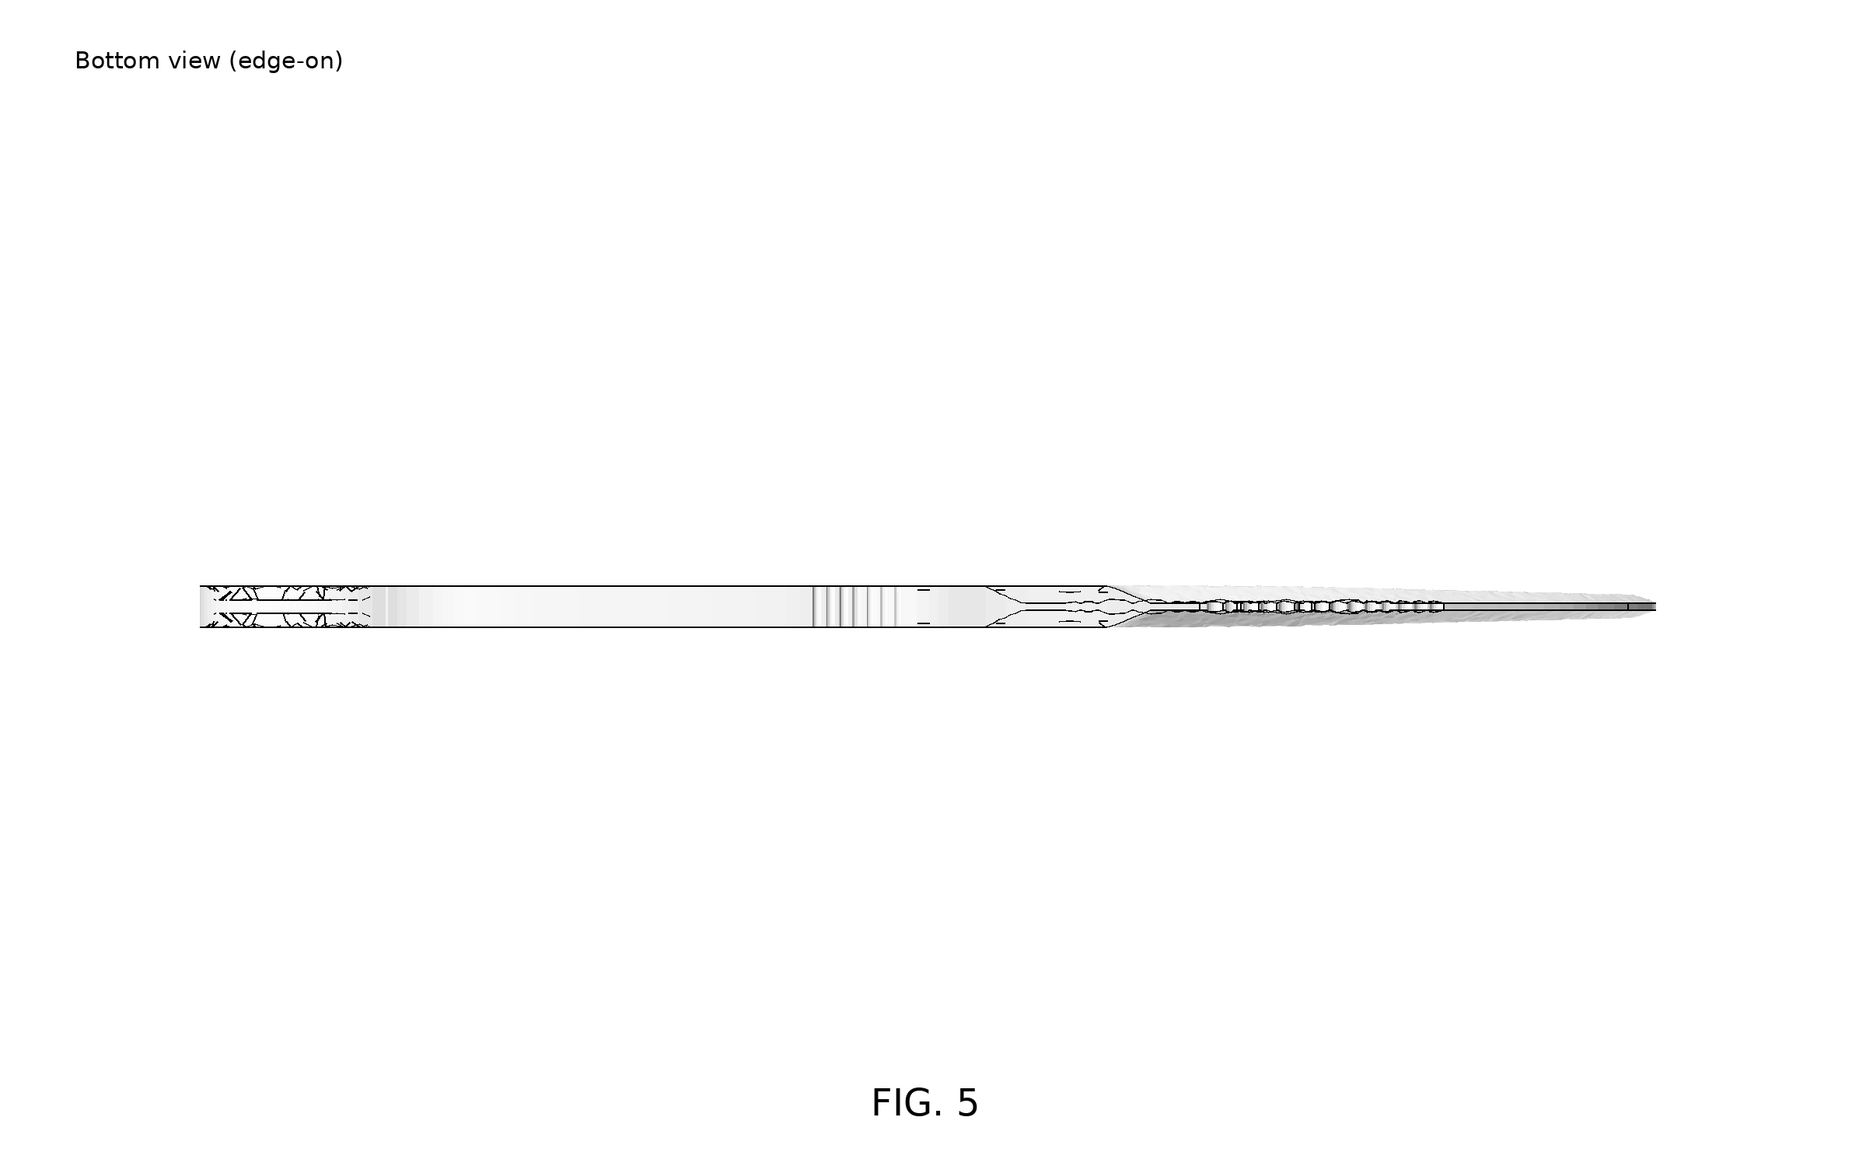
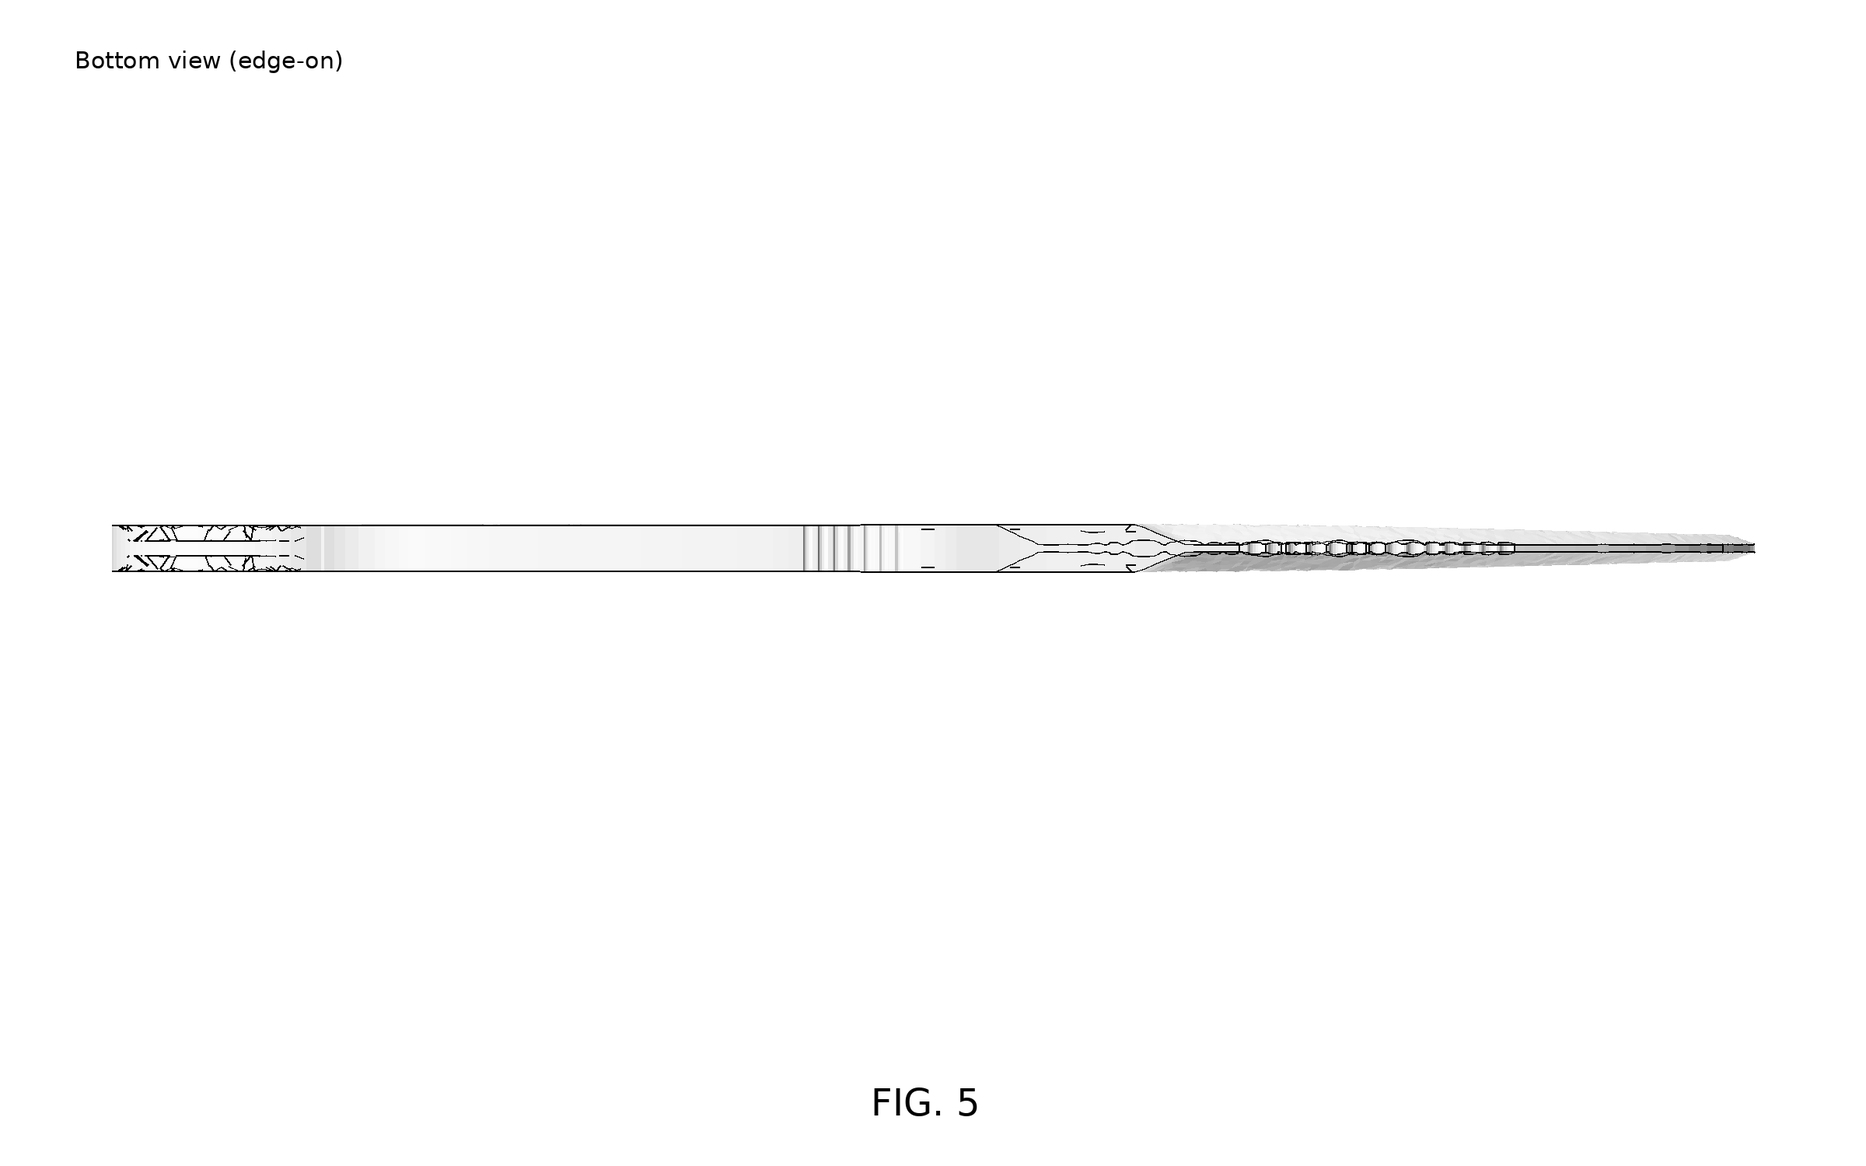
PR-0.32.0d review: fit views from projected bounds, anchor 40 at the tip and 50 in the grind-law taper, scope archived vs current screen status; tests

Changed region(s): [[0.5312, 0.4293, 0.9375, 0.552], [0.0625, 0.4293, 0.2188, 0.552], [0.4062, 0.4293, 0.5, 0.552]]

diff --git a/ops/render/patent/figures.py b/ops/render/patent/figures.py
@@ -4,7 +4,7 @@ Design-patent practice: FIG.1 perspective, FIG.2 front (left side face), FIG.3 r
 FIG.6 left end, FIG.7 right end — black line-art shading on white, orthographic. Utility-style FIG.8: front view with
 reference numerals and leader lines for the claimed features (ring, grip, spine, sharpened edge, tip, thickness taper, relief pockets).
 Writes PNGs + figures.manifest.json (inputs/outputs sha256) to --out.
-usage: figures.py --stl STL --d1 D1.json --out docs/patent/figures"""
+usage: figures.py --stl STL --d1 D1.json --grind GRIND_LAW.json --out docs/patent/figures   |   figures.py --verify docs/patent/figures/figures.json"""
 import argparse, hashlib, json, os, re
 import numpy as np
 from PIL import Image, ImageDraw, ImageFont
@@ -34,13 +34,31 @@ VIEWS = [('FIG. 1', 'Perspective view', rot('x', -55) @ rot('z', -30)),
          ('FIG. 7', 'Right end view (tip end)', rot('z', -90))]
 
 
+# drawable box (fractions of W, H): clear of the caption (top-left) and the FIG. label (bottom)
+BOX = (0.06, 0.10, 0.94, 0.84)
+
+
+def fit(q):
+    """Scale + offset from the projected bounding box: the complete part fits BOX, centred on its bbox midpoint."""
+    P = q.reshape(-1, 3); lo, hi = P[:, [0, 2]].min(0), P[:, [0, 2]].max(0)
+    bw, bh = (BOX[2] - BOX[0]) * W, (BOX[3] - BOX[1]) * H
+    s = min(bw / max(hi[0] - lo[0], 1e-6), bh / max(hi[1] - lo[1], 1e-6))
+    return s, (BOX[0] + BOX[2]) / 2 * W - (lo[0] + hi[0]) / 2 * s, (BOX[1] + BOX[3]) / 2 * H + (lo[1] + hi[1]) / 2 * s
+
+
+def screen_bounds(v, R):
+    c0 = v.reshape(-1, 3).mean(0); q = (v - c0) @ R.T; s, cx, cy = fit(q)
+    X = cx + q[:, :, 0] * s; Y = cy - q[:, :, 2] * s
+    return X.min(), Y.min(), X.max(), Y.max()
+
+
 def draw_view(v, R, title, sub, numerals=None):
     c0 = v.reshape(-1, 3).mean(0); q = (v - c0) @ R.T
     n = np.cross(q[:, 1] - q[:, 0], q[:, 2] - q[:, 0]); n /= np.linalg.norm(n, axis=1)[:, None] + 1e-12
     vis = np.abs(n[:, 1]) > 1e-3
     lam = np.abs(n @ np.array([-0.4, -0.75, 0.5]) / np.linalg.norm([-0.4, -0.75, 0.5]))
-    P = q.reshape(-1, 3); ext = max(np.ptp(P[:, 0]), np.ptp(P[:, 2]) * 1.6, 1e-6) * (1.0 if np.ptp(P[:, 0]) > 40 else 4.0)
-    s = W * 0.78 / ext; X = W / 2 + q[:, :, 0] * s; Y = H * 0.52 - q[:, :, 2] * s
+    s, cx, cy = fit(q)
+    X = cx + q[:, :, 0] * s; Y = cy - q[:, :, 2] * s
     img = Image.new('RGB', (W, H), 'white'); dr = ImageDraw.Draw(img)
     for i in np.argsort(q[:, :, 1].mean(1))[::-1]:
         if not vis[i]: continue
@@ -56,10 +74,10 @@ def draw_view(v, R, title, sub, numerals=None):
     for k, fs in edges.items():
         if len(fs) == 1 or abs(nn[fs[0]] @ nn[fs[1]]) < 0.6:
             a = (np.array(k[:3]) - c0) @ R.T; b = (np.array(k[3:]) - c0) @ R.T
-            dr.line([(W / 2 + a[0] * s, H * 0.52 - a[2] * s), (W / 2 + b[0] * s, H * 0.52 - b[2] * s)], fill='black', width=2)
+            dr.line([(cx + a[0] * s, cy - a[2] * s), (cx + b[0] * s, cy - b[2] * s)], fill='black', width=2)
     if numerals:
         for num, (pt, off) in numerals.items():
-            p = (np.array(pt) - c0) @ R.T; x, y = W / 2 + p[0] * s, H * 0.52 - p[2] * s
+            p = (np.array(pt) - c0) @ R.T; x, y = cx + p[0] * s, cy - p[2] * s
             tx, ty = x + off[0], y + off[1]
             dr.line([(x, y), (tx, ty)], fill='black', width=2); dr.text((tx + 6, ty - 18), str(num), fill='black', font=font(36))
     dr.text((W / 2 - 80, H - 110), title, fill='black', font=font(48))
@@ -78,18 +96,20 @@ def verify(man_path):
 
 
 def main(argv=None):
-    ap = argparse.ArgumentParser(); ap.add_argument('--stl'); ap.add_argument('--d1'); ap.add_argument('--out')
+    ap = argparse.ArgumentParser(); ap.add_argument('--stl'); ap.add_argument('--d1'); ap.add_argument('--out'); ap.add_argument('--grind', help='grind law json (taper_x0, x_max) for reference numeral 50')
     ap.add_argument('--verify', metavar='FIGURES_JSON', help='check a committed figure set instead of rendering')
     a = ap.parse_args(argv)
     if a.verify:
         e = verify(a.verify); print('\n'.join(e) or f'patent figures: {a.verify} ok'); raise SystemExit(1 if e else 0)
-    if not (a.stl and a.d1 and a.out):
-        ap.error('--stl, --d1 and --out are required to render')
+    if not (a.stl and a.d1 and a.out and a.grind):
+        ap.error('--stl, --d1, --grind and --out are required to render')
     os.makedirs(a.out, exist_ok=True)
     v = np.array(re.findall(r'vertex\s+(\S+)\s+(\S+)\s+(\S+)', open(a.stl).read()), float).reshape(-1, 3, 3)
     d1 = json.load(open(a.d1)); P = v.reshape(-1, 3); zt = P[:, 2].max()
     hdr = d1['genome_header'].split(','); gv = d1['genome'].split(','); ring_id = float(gv[hdr.index('ring_id')])
-    xmin, xmax = P[:, 0].min(), P[:, 0].max(); tip = P[P[:, 0].argmax()]
+    xmin, xmax = P[:, 0].min(), P[:, 0].max()
+    t2 = d1['outline'][0]; tip = np.array([t2[0], t2[1], zt])  # actual tip point (pheno c[0] = D1 outline[0])
+    gl = json.load(open(a.grind)); x_taper = gl['taper_x0'] + 0.35 * (gl['x_max'] - gl['taper_x0'])
     def near(x, pick):  # surface point at plan x, extreme y
         sel = P[np.abs(P[:, 0] - x) < 2.0]; return sel[sel[:, 1].argmax()] if pick == 'max' else sel[sel[:, 1].argmin()]
     numerals = {10: ((ring_id / 2 + 2.0, 0.0, zt), (-160, -170)),           # finger ring
@@ -98,20 +118,21 @@ def main(argv=None):
                 30: (tuple(near(xmin + 0.80 * (xmax - xmin), 'min')), (40, -190)),   # concave (inner) edge
                 32: (tuple(near(xmin + 0.80 * (xmax - xmin), 'max')), (60, 170)),    # convex (outer) edge
                 40: (tuple(tip), (60, -120)),                                 # tip
-                50: (tuple(near(xmin + 0.62 * (xmax - xmin), 'max') * [1, 0.85, 1]), (-80, 210))}  # distal taper / relief
+                50: ((x_taper, float(np.mean([near(x_taper, 'max')[1], near(x_taper, 'min')[1]])), zt), (-260, 260))}  # distal thickness taper (inside taper_x0..x_max of the grind law)
     legend = {10: 'finger ring', 12: 'ring bore (finger-bearing surface)', 20: 'grip / spine', 30: 'concave (inner) sharpened, serrated edge',
-              32: 'convex (outer) sharpened, serrated edge', 40: 'tip', 50: 'distal thickness taper / relief pockets'}
+              32: 'convex (outer) sharpened, serrated edge', 40: 'tip', 50: 'distal thickness taper'}
     outs = []
     for i, (t, sub, R) in enumerate(VIEWS, 1):
         p = os.path.join(a.out, f'fig{i:02d}.png'); draw_view(v, R, t, sub).save(p, optimize=True); outs.append(p)
     img = draw_view(v, VIEWS[1][2], 'FIG. 8', 'Front elevation with reference numerals', numerals)
     dr = ImageDraw.Draw(img)
-    for k, (num, txt) in enumerate(sorted(legend.items())): dr.text((W * 0.62, H * 0.70 + 42 * k), f'{num}  {txt}', fill='black', font=font(30))
+    for k, (num, txt) in enumerate(sorted(legend.items())): dr.text((W * 0.04, H * 0.09 + 42 * k), f'{num}  {txt}', fill='black', font=font(30))
     p = os.path.join(a.out, 'fig08.png'); img.save(p, optimize=True); outs.append(p)
     rel = lambda p: os.path.relpath(os.path.abspath(p), ROOT)
-    man = {'schema': 1, 'script': 'ops/render/patent/figures.py', 'inputs': {rel(a.stl): sha(a.stl), rel(a.d1): sha(a.d1)},
+    man = {'schema': 1, 'script': 'ops/render/patent/figures.py', 'inputs': {rel(a.stl): sha(a.stl), rel(a.d1): sha(a.d1), rel(a.grind): sha(a.grind)},
            'figures': {rel(p): sha(p) for p in outs}, 'views': [f'{t}: {s}' for t, s, _ in VIEWS] + ['FIG. 8: Front elevation with reference numerals'],
-           'reference_numerals': {str(k): v for k, v in legend.items()}}
+           'reference_numerals': {str(k): v for k, v in legend.items()},
+           'numeral_anchors_mm': {str(k): [round(float(c), 4) for c in pt] for k, (pt, _) in numerals.items()}, 'taper_mm': [gl['taper_x0'], gl['x_max']]}
     with open(os.path.join(a.out, 'figures.json'), 'w') as fh:
         json.dump(man, fh, indent=1, sort_keys=True); fh.write('\n')
     print(json.dumps({'figures': len(outs)}))

diff --git a/ops/ci/tests/test_patent_figures.py b/ops/ci/tests/test_patent_figures.py
@@ -18,8 +18,25 @@ class PatentFigures(unittest.TestCase):
 
     def test_draft_status_is_scoped(self):
         draft = open(os.path.join(ROOT, 'docs/PATENT_DRAFT.md'), encoding='utf-8').read()
-        self.assertNotRegex(draft, r'passes all hard gates')
-        self.assertIn('RS-karambit-v2', draft)
+        self.assertNotRegex(draft, r'passes all hard gates|passed every hard gate|meets the RS-karambit-v1 screen in simulation')
+        self.assertIn('RS-karambit-v2', draft); self.assertIn('archived v0.27', draft); self.assertIn('fails** the inherited RS-karambit-v1 screen', draft)
+
+    def test_views_fit_and_numerals_anchor_features(self):
+        try:
+            import numpy as np
+        except ImportError:
+            self.skipTest('numpy not installed')
+        sys.path.insert(0, os.path.join(ROOT, 'ops', 'render', 'patent'))
+        import figures as F
+        man = json.load(open(MAN)); stl = [k for k in man['inputs'] if k.endswith('.stl')][0]
+        v = np.array(re.findall(r'vertex\s+(\S+)\s+(\S+)\s+(\S+)', open(os.path.join(ROOT, stl)).read()), float).reshape(-1, 3, 3)
+        for t, _, R in F.VIEWS:
+            x0, y0, x1, y1 = F.screen_bounds(v, R)
+            self.assertGreaterEqual(x0, 0, t); self.assertLessEqual(x1, F.W, t); self.assertGreaterEqual(y0, 0, t); self.assertLessEqual(y1, F.H, t)
+        d1 = json.load(open(os.path.join(ROOT, [k for k in man['inputs'] if k.endswith('_D1.json')][0])))
+        tip = man['numeral_anchors_mm']['40']; t0 = d1['outline'][0]
+        self.assertLess(((tip[0] - t0[0]) ** 2 + (tip[1] - t0[1]) ** 2) ** 0.5, 0.5)
+        a, b = man['taper_mm']; self.assertTrue(a < man['numeral_anchors_mm']['50'][0] < b)
 
 
 if __name__ == '__main__':

diff --git a/docs/PATENT_DRAFT.md b/docs/PATENT_DRAFT.md
@@ -1,6 +1,6 @@
 # PATENT APPLICATION — DRAFT (NOT FILED)
 
-> **DRAFT / NOT FILED / NOT LEGAL ADVICE.** Prepared by the inventor for counsel review. No prior-art search has been performed. Nothing here is a manufacturing release; the described embodiment is an engineering provisional and is **not promoted**. Version: jarambit v0.32 (release candidate), 2026-10-12. **Simulation status:** the embodiment meets the RS-karambit-v1 screen in simulation but does **not** meet the v1 gate set RS-karambit-v2 (human-maximum twist, tip and spine loads, seq ≥ 1.2, finger-bearing width, holder envelope; `docs/WHITEPAPER.md` §IV-A). No embodiment has been built or tested.
+> **DRAFT / NOT FILED / NOT LEGAL ADVICE.** Prepared by the inventor for counsel review. No prior-art search has been performed. Nothing here is a manufacturing release; the described embodiment is an engineering provisional and is **not promoted**. Version: jarambit v0.32 (release candidate), 2026-10-12. **Simulation status:** in the archived v0.27 wave27 evaluation the embodiment passed the RS-karambit-v1 screen group (not promotion: seq 0.959 < 1.2, `promote_eligible` false). In the current evaluation (`evidence/rs_v2/g3_tip+00_t60_tt3.json`) it **fails** the inherited RS-karambit-v1 screen on the holder envelope (best oriented box 200.9 × 100.4 > 200 × 100 mm) and fails the RS-karambit-v2 human-maximum, seq ≥ 1.2, fatigue and finger-bearing gates (`docs/WHITEPAPER.md` §IV-A). No embodiment has been built or tested.
 
 **Inventor:** Jepson Taylor
 **Type:** Non-provisional utility application (draft)
@@ -18,7 +18,7 @@ The invention relates to fixed-blade cutting tools, and more particularly to a o
 Karambit-style knives combine a curved, hooked blade with a finger ring that retains the knife during pull cuts on cord, webbing and packaging. Lightweight titanium versions face three conflicting demands: (i) the hooked tip is thin and is the usual point of failure under lateral and prying loads; (ii) mass must stay low for hiking carry; (iii) the ring and neck must survive ring-pull and torsion while the user grips with gloves. Conventional designs set a uniform stock and grind by hand, which either over-builds the handle or leaves the tip weak. Decorative anodizing on worn ring faces wears off quickly.
 
 ## SUMMARY
-A one-piece Ti-6Al-4V crescent karambit comprises a finger ring, a neck, a grip, and a curved double-edged blade terminating in a hooked tip. (1) **Continuous rails**: raised spine rails of width ≈ 3.2 mm run without interruption from the neck through the grip into the blade, carrying lateral and torsional load past lightening pockets. (2) **Tip-outline/stock law**: the stock is 6.0 mm and tapers along a grind law from a taper start (~135 mm from the ring) to a governed tip thickness (≈ 3.10 mm; "tt3" = +0.3 mm over the prior law) while the last three outline control points of the tip are held to a fixed envelope, so the peak solid stress 4 mm from the point stays below allowable with solid tip safety factor ≥ 1.5. (3) **Dual-face ring contrast channels**: a recessed annular channel on both faces of the ring, concentric with the bore and bounded by full-thickness rims, carries a contrast anodize below the worn faces in the ring's low-stress zone. The embodiment `g3_tip+00_t60_tt3` weighs 84.80 g, has ring ID 25.46 mm, tip SF 1.534, strength-per-gram 4.147 N/g (tip×SPG 6.362), meets the RS-karambit-v1 screen in simulation, and does not yet meet RS-karambit-v2.
+A one-piece Ti-6Al-4V crescent karambit comprises a finger ring, a neck, a grip, and a curved double-edged blade terminating in a hooked tip. (1) **Continuous rails**: raised spine rails of width ≈ 3.2 mm run without interruption from the neck through the grip into the blade, carrying lateral and torsional load past lightening pockets. (2) **Tip-outline/stock law**: the stock is 6.0 mm and tapers along a grind law from a taper start (~135 mm from the ring) to a governed tip thickness (≈ 3.10 mm; "tt3" = +0.3 mm over the prior law) while the last three outline control points of the tip are held to a fixed envelope, so the peak solid stress 4 mm from the point stays below allowable with solid tip safety factor ≥ 1.5. (3) **Dual-face ring contrast channels**: a recessed annular channel on both faces of the ring, concentric with the bore and bounded by full-thickness rims, carries a contrast anodize below the worn faces in the ring's low-stress zone. The embodiment `g3_tip+00_t60_tt3` weighs 84.80 g, has ring ID 25.46 mm, tip SF 1.534, strength-per-gram 4.147 N/g (tip×SPG 6.362), passed the RS-karambit-v1 screen group in the archived v0.27 evaluation; the current evaluation fails the inherited screen (holder envelope) and RS-karambit-v2.
 
 ## BRIEF DESCRIPTION OF THE DRAWINGS
 All drawings are generated from the embodiment's STL by `ops/render/patent/figures.py` (orthographic line-art; manifest `docs/patent/figures/figures.json` with input and output sha256, checked in CI).
@@ -56,7 +56,7 @@ On each face of the ring 10, an annular recess of depth ≈ 0.6 mm extends from 
 Spine rails of width ≈ 3.18 mm (gene `rail_w`) run along the grip 20 continuously from the neck to the blade. Ablation in wave25 showed that a neck graft alone lowers lateral capacity, and that restoring full continuous rails raised SPG (3.60 → 3.81 N/g at 82.4 g). Lightening pockets, fullers and a ring flute (depth ≈ 1.64 mm over ≈ 236° of arc) sit between the rails.
 
 ### Callout C — tip-outline / stock law
-Stock thickness t_stock = 6.0 mm is held to the taper start x0 ≈ 135 mm, then reduced along the grind law (taper 50) to t_tip ≈ 3.10 mm at the tip 40. The tip outline control points (cp36–cp38) are held at the base envelope (+0 offset). Across 24 arms (tip offset −1/0/+1 mm × stock 5.8/6.0 mm × t_tip +0/+0.3 mm) only the +0 outline passed every hard gate; +0.3 mm tip stock raised solid tip SF from 1.525 to 1.534 for +0.21 g, giving the best global metric G1 = 0.9805.
+Stock thickness t_stock = 6.0 mm is held to the taper start x0 ≈ 135 mm, then reduced along the grind law (taper 50) to t_tip ≈ 3.10 mm at the tip 40. The tip outline control points (cp36–cp38) are held at the base envelope (+0 offset). Across 24 arms (tip offset −1/0/+1 mm × stock 5.8/6.0 mm × t_tip +0/+0.3 mm) only the +0 outline passed the archived RS-karambit-v1 screen group (v0.27; seq and promotion not met); +0.3 mm tip stock raised solid tip SF from 1.525 to 1.534 for +0.21 g, giving the best global metric G1 = 0.9805.
 
 ### Design method
 A genotype of control points and feature genes is decoded into an outline and thickness field, exported as a watertight STEP solid, screened by plate FEM (lateral 180/260 N, ring pull 1500 N, chord torsion 1.82 N·m), checked by a solid tetrahedral tip submodel, made robust by Monte Carlo over tolerances, −10…100 °C and cut media, and evolved by island NSGA-II. Designs are ranked by G1 = 0.35·min(SF_tip,2) + 0.35·SPG/4 + 0.20·aes − 0.05·max(0,m−77)/10 − 0.05·max(0,1.2−seq)/1.2. Hard limits reject; they are never penalties.

diff --git a/docs/RELEASES.md b/docs/RELEASES.md
@@ -3,7 +3,7 @@
 Policy: major wave N ⇒ `0.N.0`, git tag `v0.N.0`, entry here, WHITEPAPER header bump. Sub-experiments (Wave N.1, N.2 …) ⇒ `docs/WAVE_LOG.md` only (no bump, no tag). `-dev` while a wave is flying; the tag is cut only when that wave's pack (plates + solids) lands.
 
 ## Unreleased
-- PR-0.32.0d: PATENT_DRAFT upgrade. Numbered drawing set generated by code (`ops/render/patent/figures.py` → `docs/patent/figures/`, manifest with sha256, CI `--verify`): FIG. 1 perspective, FIGS. 2–7 front/rear/top/bottom/left/right orthographic line-art, FIG. 8 front elevation with utility-style reference numerals 10/12/20/30/32/40/50 and leader lines. Detailed description keyed to the numerals; new claims 15 (ring flare, bore length ≥ 10 mm) and 16 (requirement-set-scoped reporting); status scoped honestly (RS-karambit-v1 screen in simulation, RS-karambit-v2 not met). Test `ops/ci/tests/test_patent_figures.py`.
+- PR-0.32.0d: PATENT_DRAFT upgrade. Numbered drawing set generated by code (`ops/render/patent/figures.py` → `docs/patent/figures/`, manifest with sha256, CI `--verify`): FIG. 1 perspective, FIGS. 2–7 front/rear/top/bottom/left/right orthographic line-art, FIG. 8 front elevation with utility-style reference numerals 10/12/20/30/32/40/50 and leader lines (40 anchored at the actual tip point, 50 inside the grind-law taper); every view is fitted from its projected bounds. Detailed description keyed to the numerals; new claims 15 (ring flare, bore length ≥ 10 mm) and 16 (requirement-set-scoped reporting); status scoped honestly (archived v0.27 RS-karambit-v1 screen group vs current inherited-screen FAIL on the holder envelope; RS-karambit-v2 not met). Test `ops/ci/tests/test_patent_figures.py`.
 - PR-0.32.0c: WHITEPAPER upgrade (IEEE style). New §II-E methods v0.28–v0.31 (evidence layer, solid FEM + GCI, faer, RS-karambit-v2) with a generated evidence table; §III-H key components (ring 10, grip/spine 20, blade 30/32, tip 40), each with a 3D CAD view + plan FEM colormap + metrics (`ops/render/components.py` → `docs/figures/components/`); §IV-A honest RS-karambit-v2 status table (0 of 4 named designs meet every hard gate); retained body prose reconciled (seq hard, mass soft, faceted STEP not a sewn B-rep, faer/skyline rejection scope); components.py rejects an RS-v2 record whose genome differs from the D1 design and reports the strict tip-sub / solid tip gate values; generated status line under the abstract; IEEE reference list [1]–[6]. Blocks generated by `ops/ci/gen_whitepaper.py` (CI `--check`, also verifies component figure/input sha256). Test `ops/ci/tests/test_gen_whitepaper.py`.
 - PR-0.32.0b2 (review of #39): `rs-v2-eval` now observes every inherited RS-karambit-v1 gate: strict 0.0625 mm² hunter lateral and strict tip-submodel twist (twist floor body AND tip-sub), and the solid tip SF from validated evidence bound to the exact genome (`evidence/fem_solid/gci/bindings.json`: label → GCI file + the genome it was run on; the evaluated genome must be identical); a gate without evidence is reported `unverified` and can never make `all_hard` true. Empty/invalid `--genomes`, unreadable genomes and unwritable outputs now exit 1. README table shows the strict/solid columns and unverified gates. Release note fixed: g3_tip+00_t60_tt3 meets the certification-tier tip-zone twist (SF ≥ 1). Tests `rs_v2_tests` (missing/failed gate never passes, mismatched solid evidence ignored, empty/bad specs fail).
 - PR-0.32.0b: `jarambit rs-v2-eval --genomes label=path,... --out evidence/rs_v2` evaluates named genomes against every RS-karambit-v2 hard gate (screen/plate, seq ≥ 1.2, human-max loads, fatigue, ring-back, finger bearing) and writes `evidence/rs_v2/<label>.json` (+ genomes in `evidence/rs_v2/genomes/`). README gains a generated RS-v2 verdict table for g3_tip+00_t60_tt3, w271b_11772, w271b_11860, w271c_11522: **0 of 4 pass every hard gate** (all pass ring-back; all fail seq and human-max twist).
